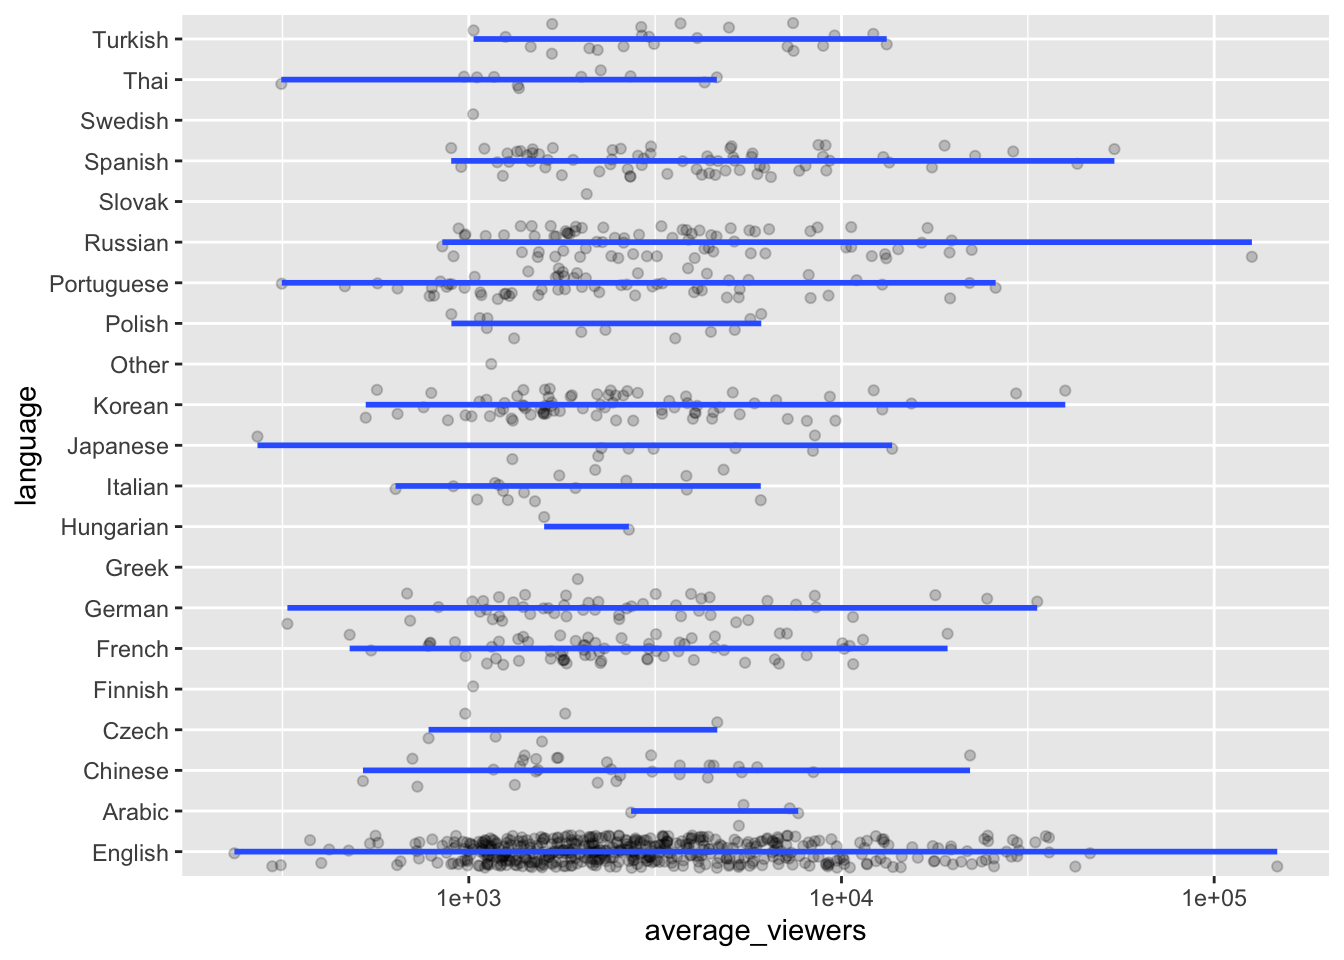
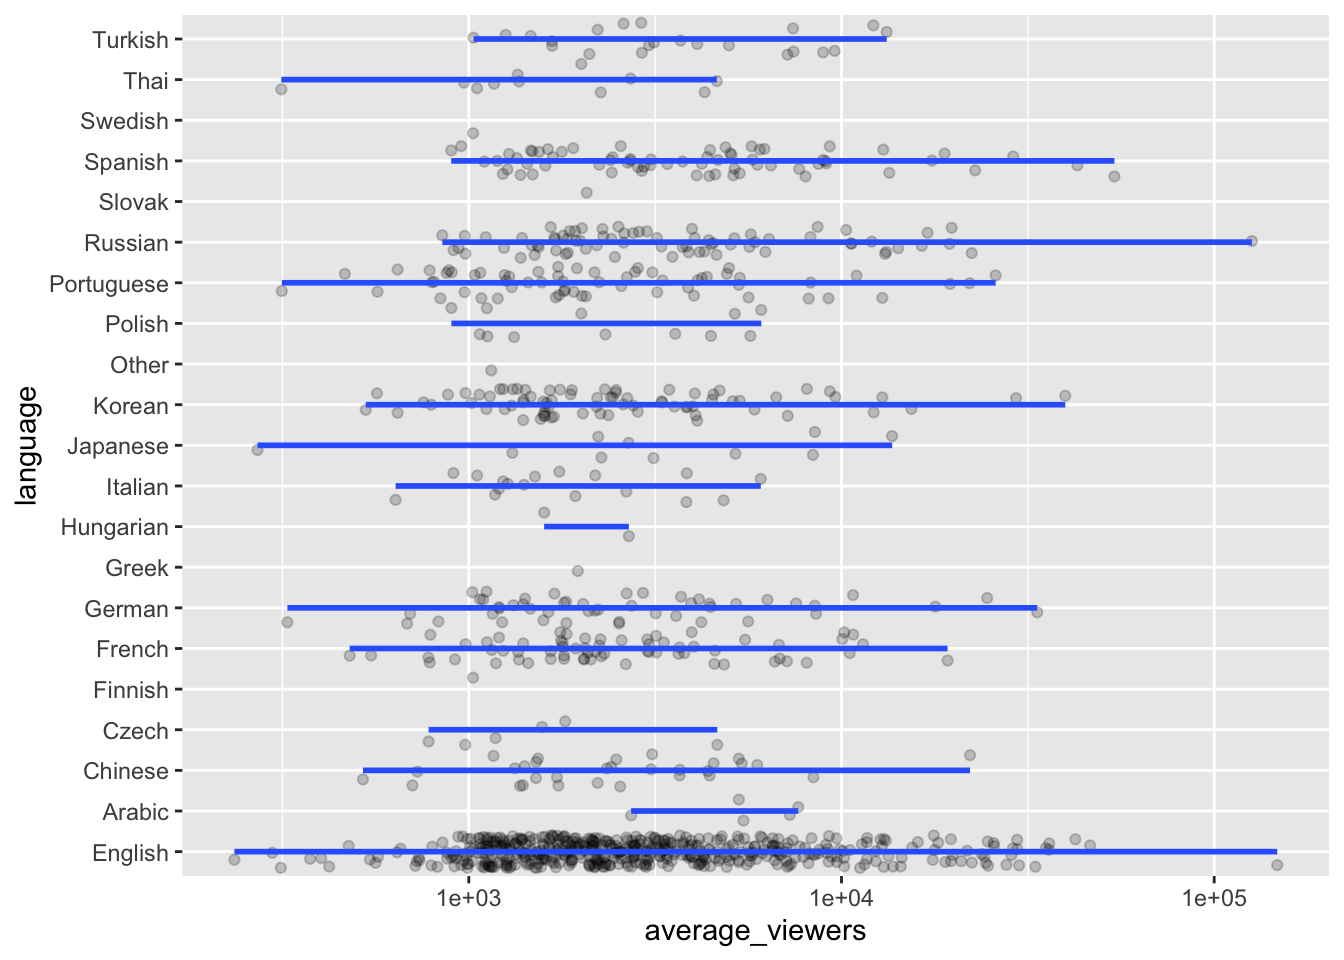
done

diff --git a/MD_HW5.html b/MD_HW5.html
@@ -158,13 +158,13 @@ Attaching package: 'janitor'</code></pre>
 <span id="cb10-3"><a href="#cb10-3" aria-hidden="true" tabindex="-1"></a>  <span class="fu">sample_n</span>(<span class="at">size =</span> <span class="dv">5</span>) </span></code><button title="Copy to Clipboard" class="code-copy-button"><i class="bi"></i></button></pre></div>
 <div class="cell-output cell-output-stdout">
 <pre><code># A tibble: 5 × 3
-  channel       average_viewers followers
-  &lt;chr&gt;                   &lt;dbl&gt;     &lt;dbl&gt;
-1 DizzyKitten              1584    613135
-2 Pelegrino1993            1074     80566
-3 ElOjoNinja               1484    273504
-4 Crystal_LoL              1466    167132
-5 Kyle                     3059    182260</code></pre>
+  channel         average_viewers followers
+  &lt;chr&gt;                     &lt;dbl&gt;     &lt;dbl&gt;
+1 TeePee                     4410    520519
+2 Rainbow6                  11535   1501197
+3 mch_AGG                     884    219431
+4 六希夫 (qttsix)            1412    118305
+5 Ziqoftw                    1293    198304</code></pre>
 </div>
 </div>
 <p>What do you notice?</p>
@@ -185,11 +185,11 @@ dplyr 1.1.0.
 <pre><code># A tibble: 5 × 2
   average_viewers followers
             &lt;dbl&gt;     &lt;dbl&gt;
-1            3678    988237
-2            1953    314170
-3            1586    621921
-4            1384    961860
-5           24181   4074287</code></pre>
+1             872     79392
+2            7656    845158
+3            3680    200953
+4            3992    171858
+5           15483   2137521</code></pre>
 </div>
 </div>
 <p>Describe the results in a few words. Does anything capture your attention?</p>
@@ -361,10 +361,12 @@ $ .std.resid    &lt;dbl&gt; 1.3420109, 0.8227954, 0.5389316, -0.6251793, 0.59536
 </div>
 </div>
 <p>Now, fit your model. Your coefficients will tell you how many more (or fewer) average viewers are related to streaming in languages different than English. Interpret the results. How is my prediction doing?</p>
+<p>Your prediction is doing suprisingly and pleasantly well for our data model as long as I am doing it correctly.</p>
 </section>
 <section id="question-6" class="level2">
 <h2 class="anchored" data-anchor-id="question-6">Question 6</h2>
 <p>Explore the residuals here using a similar plot as above. There are a couple of points our model really missed - which ones were they?</p>
+<p>Geom Smooth was missed as well as scale_x_log10 which is very important in understanding the data and interpretting it.</p>
 <div class="cell">
 <div class="sourceCode cell-code" id="cb30"><pre class="sourceCode r code-with-copy"><code class="sourceCode r"><span id="cb30-1"><a href="#cb30-1" aria-hidden="true" tabindex="-1"></a>twitch_data <span class="sc">|&gt;</span> </span>
 <span id="cb30-2"><a href="#cb30-2" aria-hidden="true" tabindex="-1"></a>  <span class="fu">ggplot</span>(<span class="fu">aes</span>(<span class="at">x =</span> average_viewers, <span class="at">y =</span> language)) <span class="sc">+</span></span>
@@ -386,6 +388,7 @@ $ .std.resid    &lt;dbl&gt; 1.3420109, 0.8227954, 0.5389316, -0.6251793, 0.59536
 </div>
 </div>
 <p>There are a couple of points our model really missed - which ones were they?</p>
+<p>They missed Finnish, Greek, Other and Swedish.</p>
 </section>
 
 </main>
